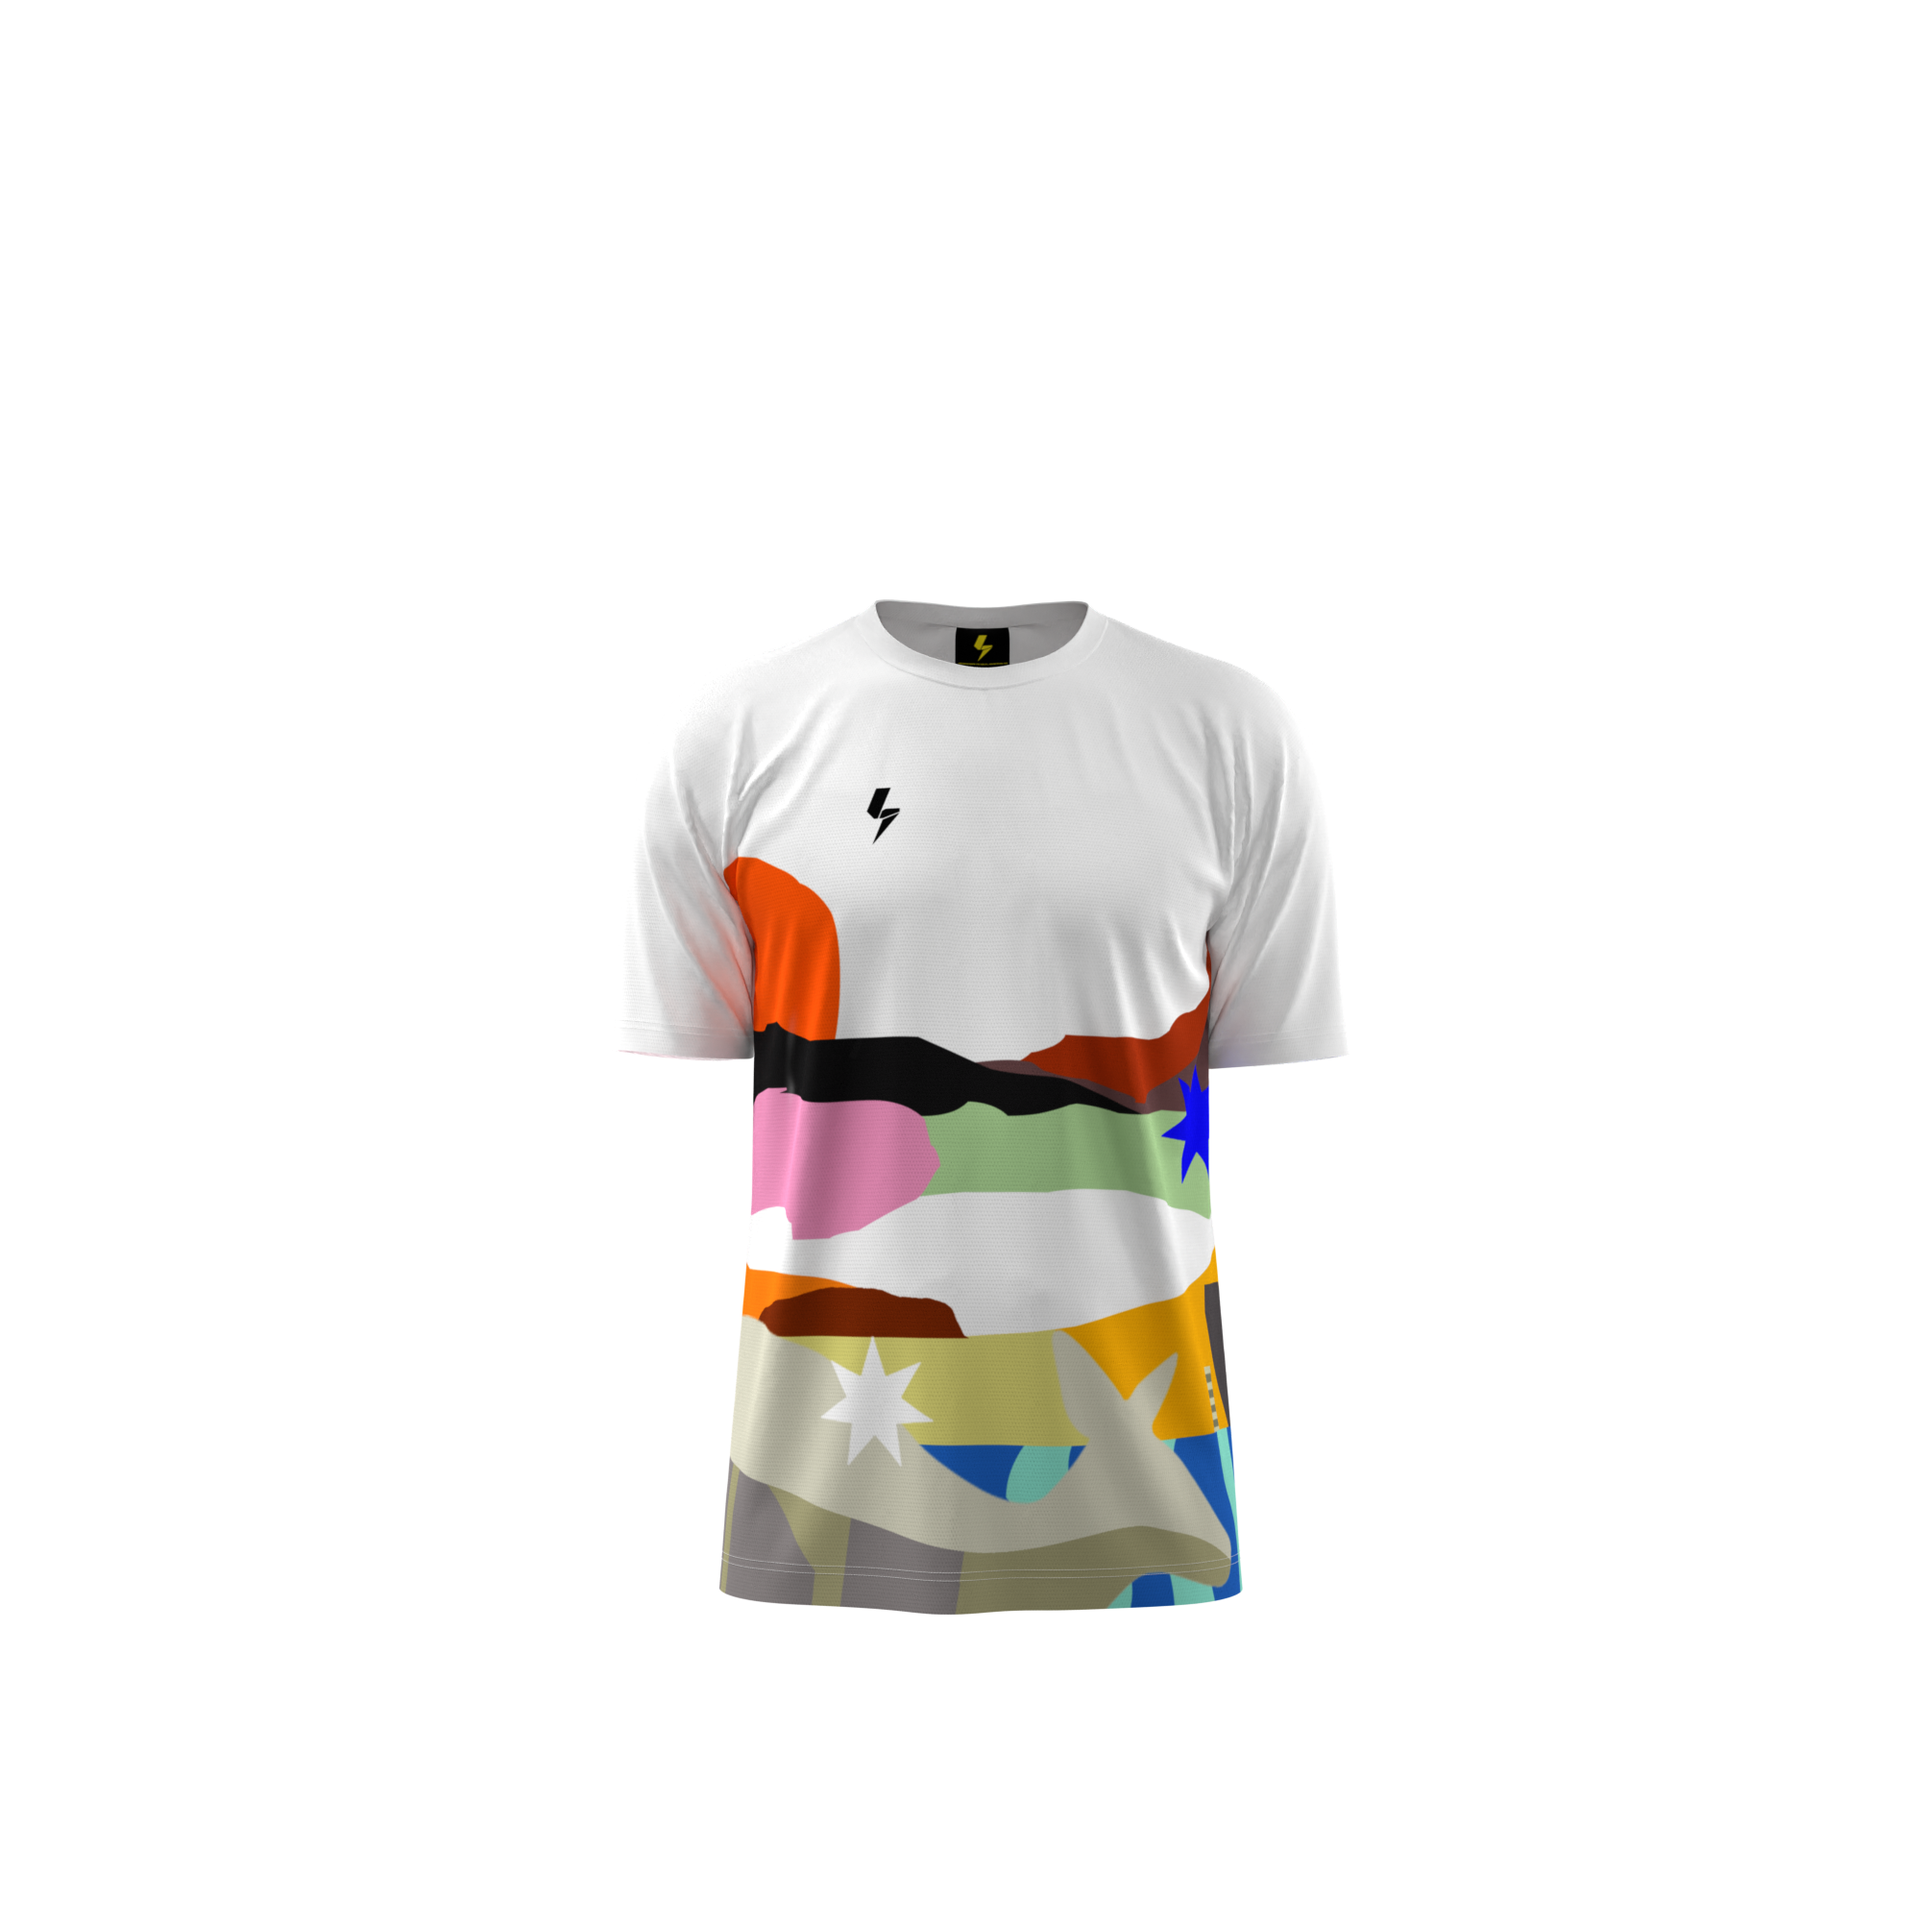
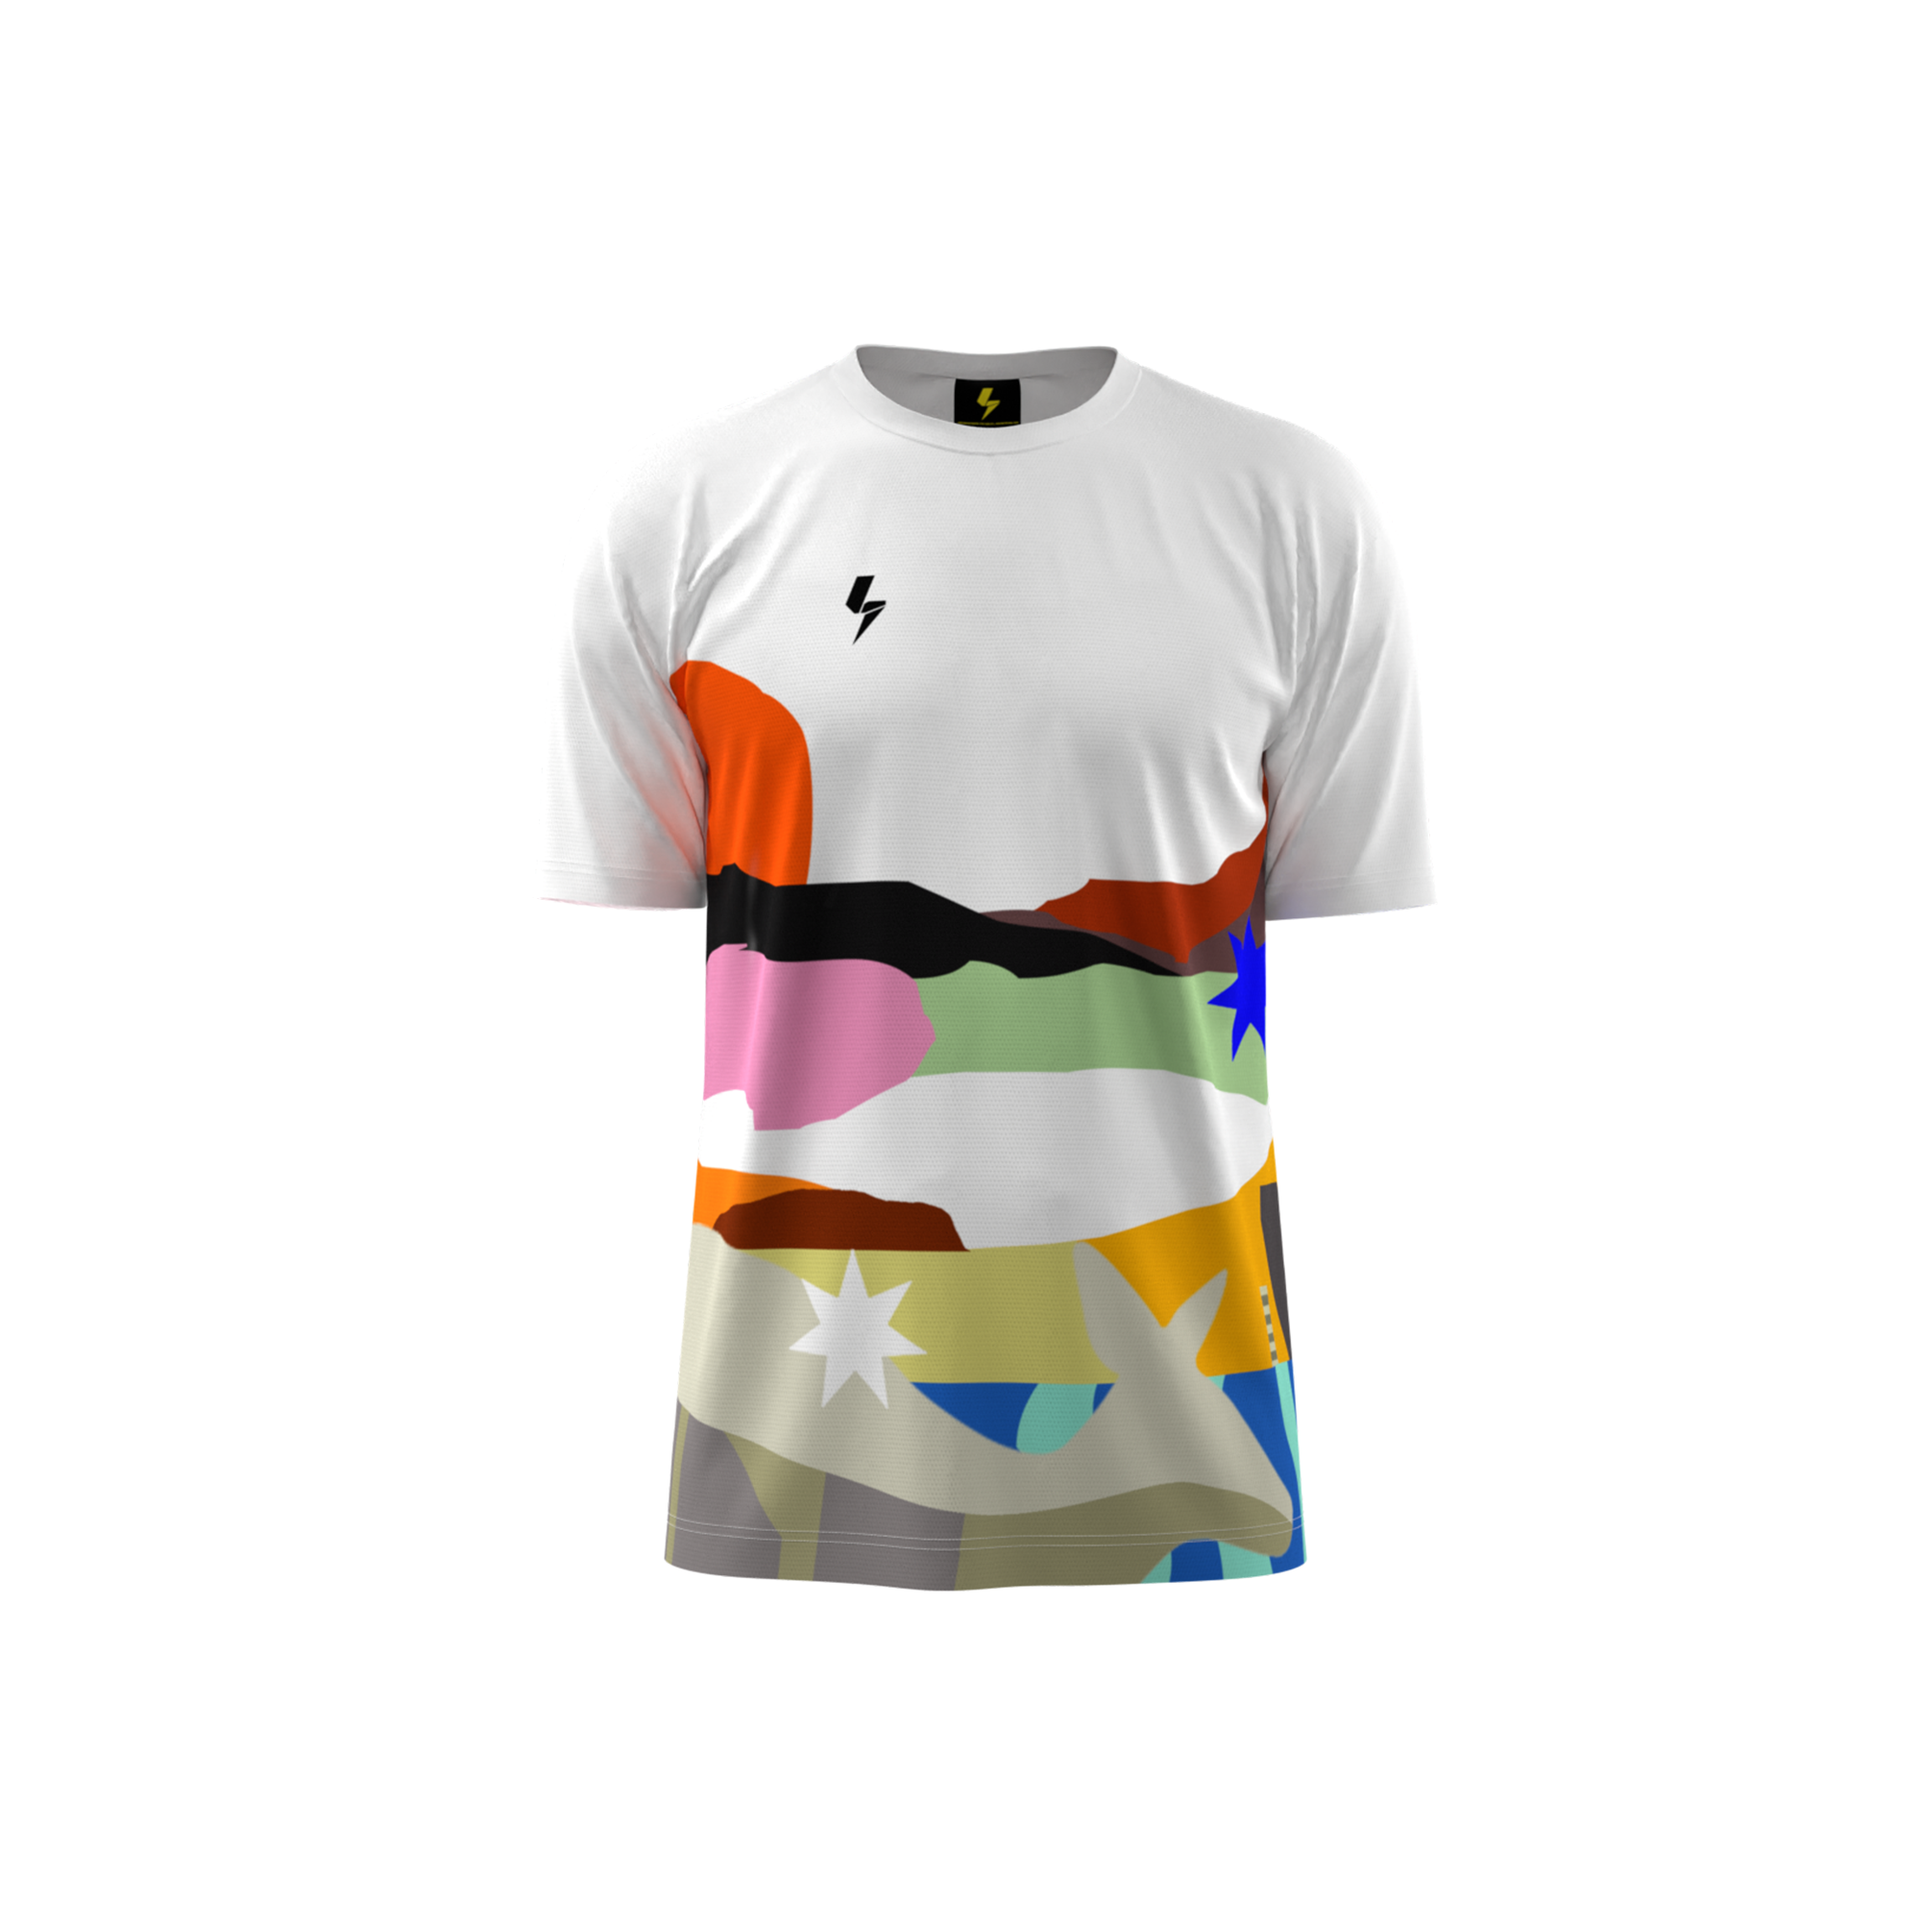
add more assets to digital-apparel

Changed region(s): [[0.279, 0.155, 0.744, 0.837]]

diff --git a/pages/digitalapparel.html b/pages/digitalapparel.html
@@ -90,8 +90,12 @@
               <img src=" ../assets/images/digitalapparel/Hood-on_BACK.png" class="d-block vh-100"
                 style="object-fit: cover;" />
             </div>
-            <!-- <div class="carousel-item">
+            <div class="carousel-item">
               <img src=" ../assets/images/digitalapparel/Tee_SportAus_FRONT.png" class="d-block vh-100"
+                style="object-fit: cover;" />
+            </div>
+            <div class="carousel-item">
+              <img src=" ../assets/images/digitalapparel/Tee_SportAus_BACK.png" class="d-block vh-100"
                 style="object-fit: cover;" />
             </div>
             <div class="carousel-item">
@@ -99,13 +103,25 @@
                 style="object-fit: cover;" />
             </div>
             <div class="carousel-item">
+              <img src=" ../assets/images/digitalapparel/Tee_SportMountain_BACK.png" class="d-block vh-100"
+                style="object-fit: cover;" />
+            </div>
+            <div class="carousel-item">
               <img src=" ../assets/images/digitalapparel/Tee_SuntetBeige_FRONT.png" class="d-block vh-100"
+                style="object-fit: cover;" />
+            </div>
+            <div class="carousel-item">
+              <img src=" ../assets/images/digitalapparel/Tee_SuntetBeige_BACK.png" class="d-block vh-100"
                 style="object-fit: cover;" />
             </div>
             <div class="carousel-item">
               <img src=" ../assets/images/digitalapparel/Tee_SuntetBlack_FRONT.png" class="d-block vh-100"
                 style="object-fit: cover;" />
-            </div> -->
+            </div>
+            <div class="carousel-item">
+              <img src=" ../assets/images/digitalapparel/Tee_SuntetBlack_BACK.png" class="d-block vh-100"
+                style="object-fit: cover;" />
+            </div>
 
           </div>
           <button class="carousel-control-prev" type="button" data-bs-target="#carousel1" data-bs-slide="prev">
